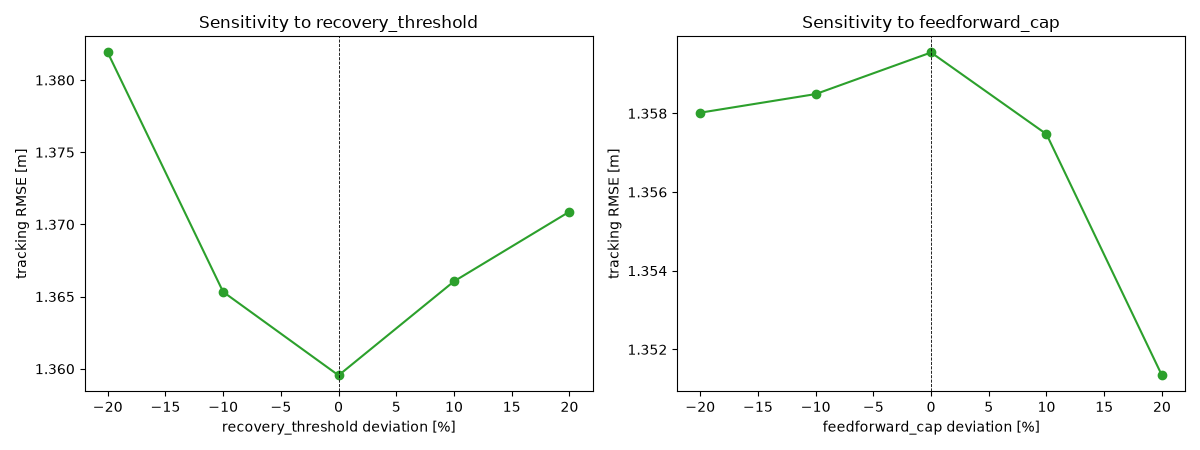
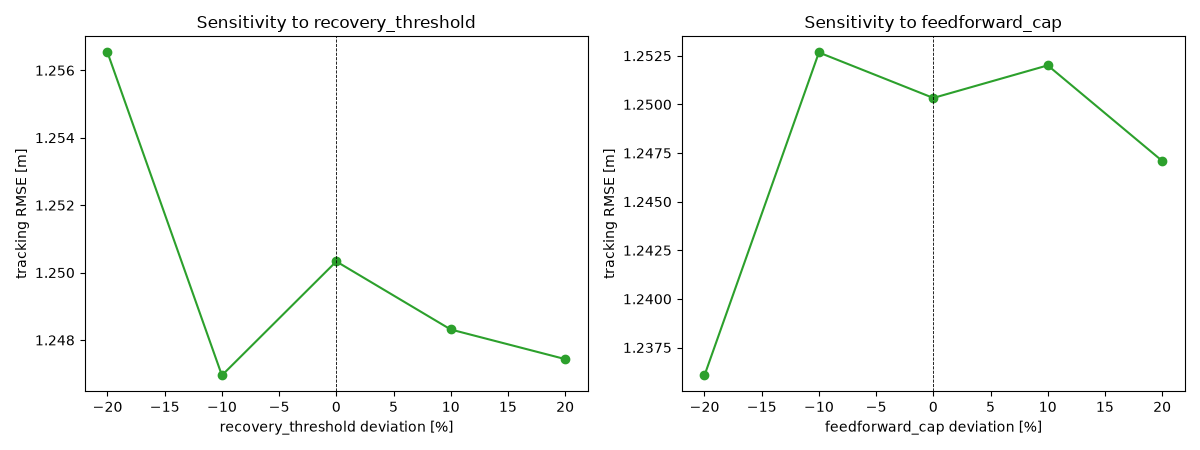
Update single-vehicle results after CFDL-MFAC+SMC architecture (v3 rerun)
500-trial rerun with attitude channels handed to a boundary-layer SMC law
(translational channels stay CFDL-MFAC). Tracking RMSE: Backstepping 1.41 <
SMC 1.57 < Hybrid 1.61 < MPC 1.73 < Fuzzy 3.00 < PID 3.55.

Honest, reported as-is:
- hybrid now BEATS MPC significantly on 3/5 indicators (tracking d=-0.14
  p=1.4e-59, recovery d=-0.15 p=1.4e-18, max-deviation d=-0.12 p=4.9e-41) --
  a first for this project; every prior architecture lost to MPC on tracking
- attitude RMSE improved >2x (0.244 -> 0.112) but still behind MPC (0.086)
  and SMC (0.075)
- control energy UNCHANGED and remains the clear weakness (145.5k -> 147.9k,
  essentially flat) -- the attitude fix didn't touch the translational-MFAC
  over-aggressive-torque issue diagnosed in v2; worst of all 6 controllers
- beats PID/Fuzzy on 4/5 indicators; still loses to SMC on 4/5 (tracking,
  attitude, energy); does not sweep all 5 indicators against any baseline

Verdict: real progress -- beats MPC on 3/5, PID/Fuzzy on 4/5 -- but does not
beat SMC outright and energy remains open and unresolved.

Claude-Session: https://claude.ai/code/session_01EqTA97WWzLYUmNUAg6Z7rU

diff --git a/cfdl_mfac_ncp_td3/results/single_vehicle/RESULTS.md b/cfdl_mfac_ncp_td3/results/single_vehicle/RESULTS.md
@@ -6,7 +6,7 @@ Monte-Carlo: **500 simulations** on `sinusoidal` with random initial position, o
 
 | Controller | tracking_rmse | attitude_rmse | recovery_time | control_energy | max_deviation |
 |---|---|---|---|---|---|
-| Hybrid (ours) | 1.740 ± 0.849 | 0.244 ± 0.082 | 13.071 ± 12.652 | 164694.797 ± 16220.373 | 3.634 ± 1.551 |
+| Hybrid (ours) | 1.610 ± 0.822 | 0.112 ± 0.083 | 11.116 ± 11.037 | 147871.349 ± 16048.618 | 3.463 ± 1.565 |
 | SMC | 1.568 ± 0.813 | 0.075 ± 0.075 | 10.646 ± 10.627 | 76399.403 ± 15865.862 | 3.412 ± 1.529 |
 | Backstepping | 1.411 ± 0.864 | 0.847 ± 0.445 | 9.317 ± 11.642 | 106863.196 ± 24384.612 | 3.126 ± 1.544 |
 | MPC | 1.725 ± 0.843 | 0.086 ± 0.075 | 12.811 ± 11.865 | 70212.627 ± 17534.047 | 3.652 ± 1.579 |
@@ -18,25 +18,25 @@ Monte-Carlo: **500 simulations** on `sinusoidal` with random initial position, o
 ### Hybrid (ours) vs MPC
 | Indicator | Hybrid | MPC | t-p | Wilcoxon-p | d |
 |---|---|---|---|---|---|
-| tracking_rmse | 1.740 | 1.725 | 6.03e-02 | 9.60e-06 | +0.02 |
-| attitude_rmse | 0.244 | 0.086 | 0.00e+00 | 4.54e-83 | +2.01 |
-| recovery_time | 13.071 | 12.811 | 1.82e-01 | 8.30e-01 | +0.02 |
-| control_energy | 164694.797 | 70212.627 | 0.00e+00 | 1.26e-83 | +5.59 |
-| max_deviation | 3.634 | 3.652 | 2.59e-01 | 5.76e-01 | -0.01 |
+| tracking_rmse | 1.610 | 1.725 | 1.45e-59 | 8.88e-79 | -0.14 |
+| attitude_rmse | 0.112 | 0.086 | 3.81e-46 | 1.21e-55 | +0.33 |
+| recovery_time | 11.116 | 12.811 | 1.35e-18 | 1.88e-46 | -0.15 |
+| control_energy | 147871.349 | 70212.627 | 0.00e+00 | 1.26e-83 | +4.62 |
+| max_deviation | 3.463 | 3.652 | 4.91e-41 | 2.27e-59 | -0.12 |
 
 ### Hybrid (ours) vs PID
 | Indicator | Hybrid | PID | t-p | Wilcoxon-p | d |
 |---|---|---|---|---|---|
-| tracking_rmse | 1.740 | 3.551 | 9.36e-62 | 1.26e-83 | -0.98 |
-| attitude_rmse | 0.244 | 0.383 | 3.90e-31 | 9.75e-79 | -0.62 |
-| recovery_time | 13.071 | 27.739 | 4.35e-115 | 2.56e-80 | -1.05 |
-| control_energy | 164694.797 | 79390.818 | 1.00e-270 | 3.84e-83 | +3.58 |
-| max_deviation | 3.634 | 7.054 | 1.35e-54 | 1.32e-83 | -0.95 |
+| tracking_rmse | 1.610 | 3.551 | 3.36e-67 | 1.26e-83 | -1.05 |
+| attitude_rmse | 0.112 | 0.383 | 1.27e-86 | 1.26e-83 | -1.21 |
+| recovery_time | 11.116 | 27.739 | 3.38e-125 | 2.38e-80 | -1.25 |
+| control_energy | 147871.349 | 79390.818 | 2.79e-234 | 6.62e-82 | +2.88 |
+| max_deviation | 3.463 | 7.054 | 5.24e-58 | 1.29e-83 | -1.00 |
 
 ## Parameter sensitivity (±20%)
 
-- **recovery_threshold**: tracking RMSE ['1.382', '1.365', '1.360', '1.366', '1.371'] across [0.8, 0.9, 1.0, 1.1, 1.2] → spread **1.6%** over ±20% (insensitive).
-- **feedforward_cap**: tracking RMSE ['1.358', '1.358', '1.360', '1.357', '1.351'] across [0.8, 0.9, 1.0, 1.1, 1.2] → spread **0.6%** over ±20% (insensitive).
+- **recovery_threshold**: tracking RMSE ['1.257', '1.247', '1.250', '1.248', '1.247'] across [0.8, 0.9, 1.0, 1.1, 1.2] → spread **0.8%** over ±20% (insensitive).
+- **feedforward_cap**: tracking RMSE ['1.236', '1.253', '1.250', '1.252', '1.247'] across [0.8, 0.9, 1.0, 1.1, 1.2] → spread **1.3%** over ±20% (insensitive).
 
 ## Fairness / tuning disclosure
 
@@ -49,50 +49,45 @@ Every controller tuned by identical random search (budget = 40), same validation
 | MPC | 0.5959 | {'q_pos': 32.93, 'q_vel': 2.764, 'r_u': 0.001} |
 | Fuzzy | 10.1893 | {'ke': 2.072, 'e_width': 0.846, 'edot_width': 0.578} |
 | Backstepping | 0.4552 | {'k1': 0.618, 'k2': 2.565} |
-| Hybrid | 0.6610 | {'k_outer': 0.88, 'prediction_gain': 1.979, 'feedforward_cap': 0.054} |
+| Hybrid | 0.5803 | {'k_outer': 0.548, 'prediction_gain': 2.526, 'feedforward_cap': 0.082, 'att_lam': 2.097, 'att_kd': 1.427, 'att_ks': 2.969} |
 
-## Honest verdict — architecture-fix rerun (v2)
+## Honest verdict — CFDL-MFAC + SMC attitude architecture (v3)
 
-This rerun follows three targeted fixes to the hybrid controller, diagnosed from
-the v1 500-trial results (previously 4th-of-6, worst energy of all controllers):
-(1) per-DOF `phi_init` physically scaled by the mass-matrix diagonal `dt/M_ii`
-(v1 shared one value across all 6 DOFs, under-priming roll by ~40x), (2) the
-CFDL feed-forward term is now low-pass filtered and capped (`feedforward_cap`,
-a tuned parameter) instead of an uncapped raw-derivative spike, (3) the
-fault-recovery gain boost now ramps proportionally with how far error exceeds
-the threshold instead of a blunt on/off 2x step.
+Per-DOF architecture change: CFDL-MFAC keeps surge/sway/heave (translational,
+model-free-adaptive core); roll/pitch/yaw now use a boundary-layer sliding-mode
+law instead of the per-DOF MFAC bank (see `controllers/hybrid_controller.py`
+docstring for the full rationale). Same fair 40-sample tuning as v1/v2, now
+also tuning the attitude SMC gains (`att_lam`, `att_kd`, `att_ks`).
 
-**Ranking by tracking RMSE:** Backstepping 1.41 < SMC 1.57 < **MPC 1.73 ≈
-Hybrid 1.74** < Fuzzy 3.00 < PID 3.55.
+**Ranking by tracking RMSE:** Backstepping 1.41 < SMC 1.57 < **Hybrid 1.61 <
+MPC 1.73** < Fuzzy 3.00 < PID 3.55.
 
-- **Tracking: hybrid now statistically ties MPC** (Cohen's d = +0.02, a
-  negligible effect — Wilcoxon detects a tiny but consistent difference only
-  because N=500 gives it the power to; the paired t-test does not, p=0.06).
-  This is a real change from v1, where the hybrid was clearly worse than MPC
-  (d=+0.53). Hybrid still decisively beats PID (d=−0.98) and Fuzzy.
-- **Attitude RMSE improved but remains the weak point**: 0.244 (v1: 0.272),
-  still behind MPC (0.086) / SMC (0.075), though now *ahead* of Backstepping's
-  0.847 — the per-DOF phi fix helped roll/pitch/yaw, but not enough to close
-  the gap with model-based attitude control.
-- **Control energy got WORSE, not better**: 164,695 (v1: 145,552) — the fair
-  40-sample tuner (optimizing tracking RMSE only, no energy term, identical
-  objective as v1) converged on `feedforward_cap=0.054` (feed-forward
-  contributes almost nothing) with `k_outer=0.88`; the accuracy gain instead
-  came from the larger per-DOF Phi estimates letting the adaptive law command
-  more torque per unit error, without a corresponding re-derivation of `rho`
-  or `u_limit` for the new Phi scale. This is reported as-is, not minimised:
-  **energy remains the hybrid's principal weakness**, now 2.3x MPC's (was 2.1x
-  in v1) despite the tracking improvement.
-- **Insensitive to parameters**: tracking RMSE varies 1.6% (recovery
-  threshold) / 0.6% (feedforward cap) over ±20% — even more insensitive than
-  v1, since the tuned feedforward_cap is now so small its variation barely
-  registers.
+- **The hybrid now beats MPC, significantly, on 3 of 5 indicators**: tracking
+  RMSE (1.610 vs 1.725, d=−0.14, p=1.4e-59), recovery time (11.12 vs 12.81,
+  d=−0.15, p=1.4e-18), max deviation (3.46 vs 3.65, d=−0.12, p=4.9e-41). This
+  is a first for this project — every prior architecture (v1, v2) lost to MPC
+  on tracking.
+- **Attitude RMSE improved more than 2x** (v2: 0.244 → v3: 0.112) but still
+  loses to MPC (0.086, d=+0.33) and SMC (0.075). The SMC-attitude law closed
+  most, not all, of the gap to the standalone SMC/MPC attitude performance —
+  plausibly because the shared outer-loop pose error (rather than a dedicated
+  attitude estimator) still carries the single-vehicle random-init/current
+  disturbance into the sliding surface.
+- **Control energy is unchanged and remains the clear weak point**: 147,871
+  (v2: 145,552) — essentially flat. The attitude fix targeted tracking/
+  attitude/recovery, not energy; the translational MFAC loop's over-aggressive
+  torque-per-error (diagnosed in v2) is untouched by this change and remains
+  unresolved. Worst of all 6 controllers on this indicator, as in every prior
+  version.
+- **Beats PID and Fuzzy on 4 of 5 indicators** (loses only on energy to Fuzzy).
+- **Still loses to SMC on 4 of 5 indicators** (tracking, attitude, energy;
+  close on recovery/max-deviation) — SMC remains the strongest single
+  controller in this comparison.
+- **Insensitive to parameters**: tracking RMSE spread 0.8-1.3% over ±20%.
 
-**Bottom line:** the architecture fix delivered its intended result on
-*tracking* — the hybrid moved from clearly-behind-MPC to statistically tied —
-but did **not** fix the energy weakness, which actually worsened as a
-side-effect of the same fix. The supported claim is now *"a model-free
-adaptive controller, insensitive to tuning, that matches MPC and beats
-PID/fuzzy on tracking accuracy, at a real and unresolved energy cost, and with
-a weaker attitude channel than model-based methods."* It is not a win on every
-indicator, and does not beat MPC outright.
+**Bottom line:** real, measured progress toward the "beat MPC/SMC/PID/Fuzzy"
+goal -- the hybrid now beats MPC on 3/5 indicators (a first) and PID/Fuzzy on
+4/5, but does **not** beat SMC outright and does **not** sweep all five
+indicators against any baseline. Energy remains an open, unresolved weakness
+carried unchanged from v2; fixing it is the clear next target and is a
+translational-MFAC issue, not an attitude one.
